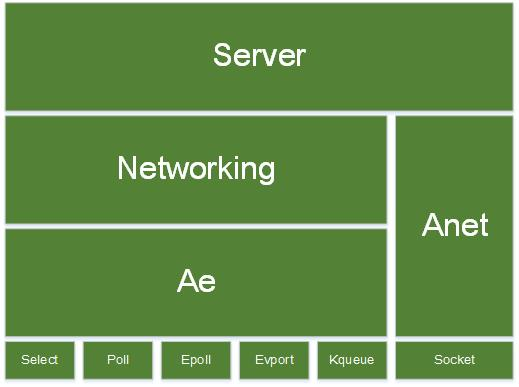
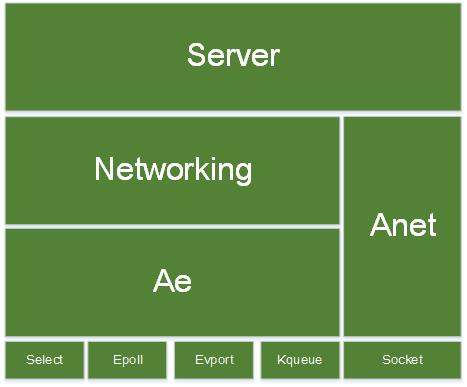
modify pic size

diff --git a/_posts/2017-06-14-Redis源码剖析(二)__Reactor模型.html b/_posts/2017-06-14-Redis源码剖析(二)__Reactor模型.html
@@ -19,7 +19,7 @@ Redis没有采用其它开源的Event Libray，而是自己开发了一套比较
 
 <p>Redis架构图如图1所示。其中，Ae与Anet组成了Event Library，主要代码集中在ae.c、ae_epoll.c、ae_evport、ae_kqueue.c、ae_select、anet.c文件中</p>
 <p>
-    <img src="{{ site.baseurl }}/redis-architecture.jpg" width="519" height="387" alt="Redis框图">
+    <img src="{{ site.baseurl }}/redis-architecture.jpg" width="467" height="387" alt="Redis框图">
     图一
 </p>
 
@@ -36,7 +36,9 @@ Redis没有采用其它开源的Event Libray，而是自己开发了一套比较
 </ul>
 
 其中，aeApiState对应网络模型数据结构。
+</p>
 
+<p>
 ae.c通过以上所说的8个接口来使用IO复用模型，另外通过宏来将决定使用具体的网络模型。代码如下：
 </p>
 
